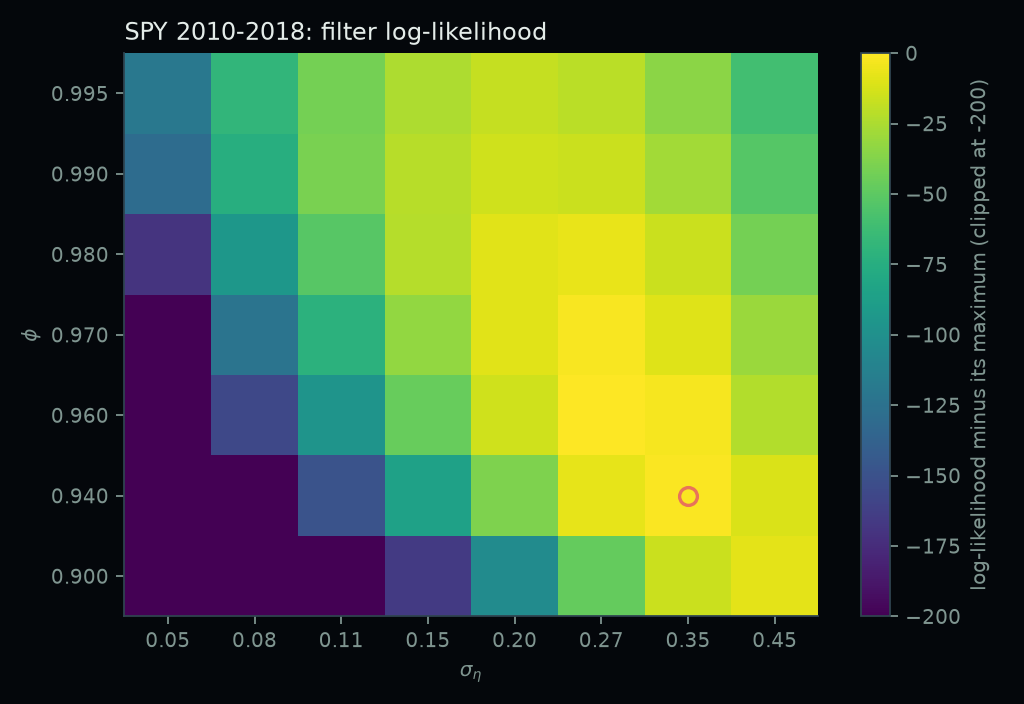
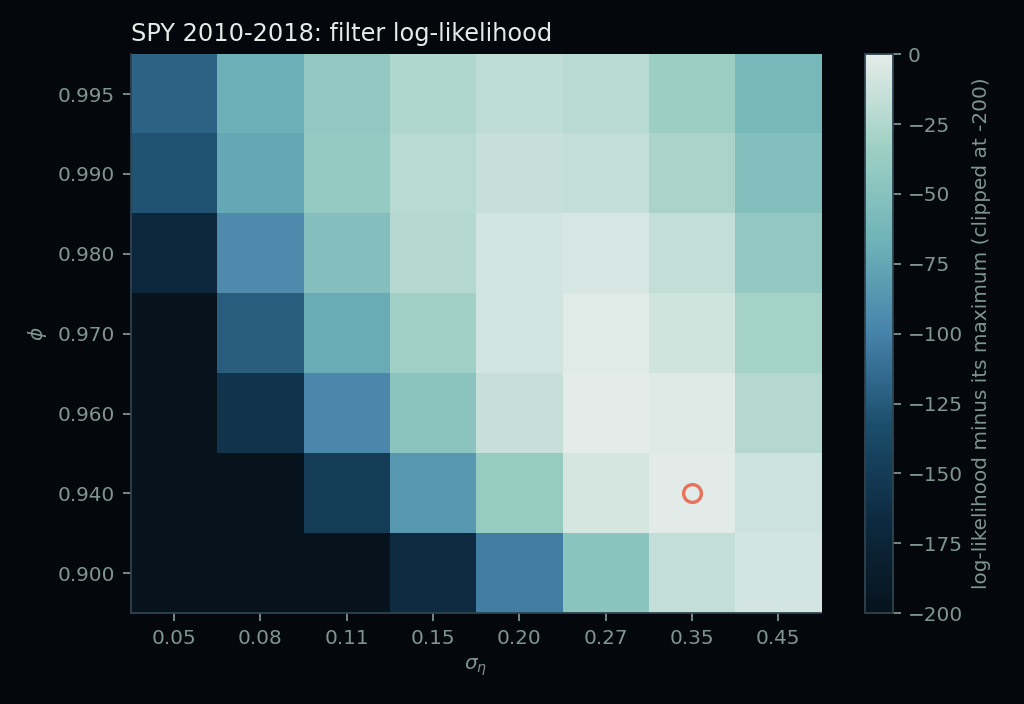
Match README figures to the aqua theme

diff --git a/scripts/spy_run.py b/scripts/spy_run.py
@@ -113,15 +113,16 @@ def main() -> None:
         "diebold_mariano_qlike_2019_2024": dm, "diebold_mariano_qlike_2020_feb_jun": dm_crash}, indent=2))
 
     # figure: fitted filter vs baselines through the 2020 crash
+    style.apply()
     f0 = runs["Particle filter (fitted)"][0]
     sel = (dates >= "2019-10-01") & (dates <= "2020-12-31")
     x = dates[sel]
     fig, ax = plt.subplots(3, 1, figsize=(8, 7.4), sharex=True, gridspec_kw={"height_ratios": [1, 2, 0.8]})
     ax[0].plot(x, prices.reindex(dates)[sel], color=style.INK, lw=1); ax[0].set_ylabel("SPY adj. close")
     ax[1].fill_between(x, annualize(f0.quantiles[sel, 0]), annualize(f0.quantiles[sel, 4]),
-                       color=style.DEEP, alpha=0.3, lw=0, label="PF 90% band")
+                       color=style.DEEP, alpha=0.4, lw=0, label="PF 90% band")
     ax[1].fill_between(x, annualize(f0.quantiles[sel, 1]), annualize(f0.quantiles[sel, 3]),
-                       color=style.DEEP, alpha=0.5, lw=0, label="PF 50% band")
+                       color=style.DEEP, alpha=0.7, lw=0, label="PF 50% band")
     ax[1].plot(x, annualize(f0.quantiles[sel, 2]), color=style.ACCENT, lw=1.6, label="PF median (fitted)")
     ax[1].plot(x, annualize(forecasts["EWMA (0.94)"][0][sel]), color=style.EWMA, lw=1, label="EWMA 0.94")
     ax[1].plot(x, annualize(forecasts["GARCH(1,1), fit on 2010-2018"][0][sel]), color=style.GARCH, lw=1,

diff --git a/scripts/fit_params.py b/scripts/fit_params.py
@@ -118,7 +118,7 @@ def main() -> None:
         if abs(j["off"] - best["off"]) < 1e-9:
             grid[PHIS.index(j["phi"]), SIGS.index(j["sig"])] = v
     fig, ax = plt.subplots(figsize=(6.4, 4.4))
-    im = ax.imshow(grid - np.nanmax(grid), origin="lower", aspect="auto", cmap="viridis",
+    im = ax.imshow(grid - np.nanmax(grid), origin="lower", aspect="auto", cmap=style.AQUA,
                    vmin=-200, vmax=0)
     ax.set_xticks(range(len(SIGS)), [f"{x:.2f}" for x in SIGS]); ax.set_yticks(range(len(PHIS)),
                                                                             [f"{x:.3f}" for x in PHIS])

diff --git a/scripts/style.py b/scripts/style.py
@@ -3,10 +3,14 @@ import matplotlib
 
 matplotlib.use("Agg")
 import matplotlib.pyplot as plt  # noqa: E402
+from matplotlib.colors import LinearSegmentedColormap  # noqa: E402
 
 BG, INK, MUTED = "#04070b", "#e4ece9", "#7f9590"
 ACCENT, DEEP, CORAL = "#9ed0c4", "#4682aa", "#e8735a"
 ROLL, GARCH, EWMA = "#8fb8d6", "#d9c9a6", "#b49fd6"
+
+# Sequential deep-sea -> aqua ramp for heatmaps (replaces viridis, which clashes with the palette).
+AQUA = LinearSegmentedColormap.from_list("aqua", ["#06121c", "#0d2a40", "#1b4d6b", DEEP, "#6fb3b8", ACCENT, "#e4ece9"])
 
 
 def apply() -> None:
